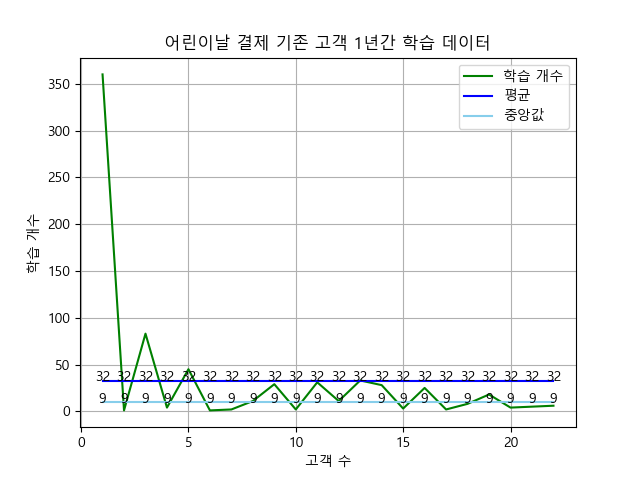
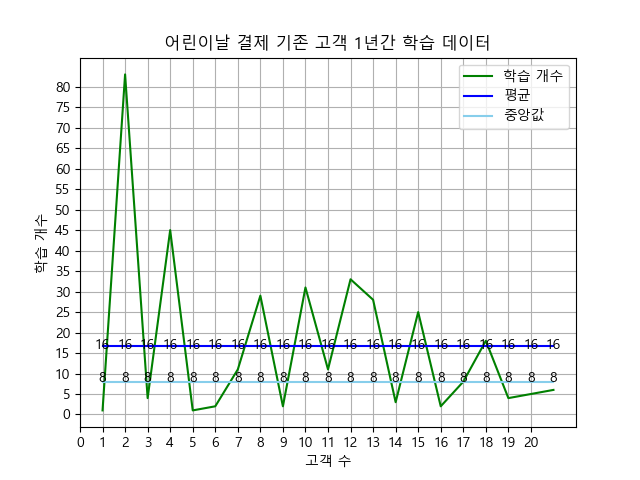
2022-05-17 Update

Changed region(s): [[0.0312, 0.1562, 0.9062, 0.875], [0.4375, 0.9062, 0.8438, 0.9375], [0.1875, 0.9062, 0.3438, 0.9375]]

diff --git a/existingCustomerLearningData.py b/existingCustomerLearningData.py
@@ -26,8 +26,11 @@ plt.plot(df.rownum, learning_data_count_mean, color='blue', linestyle='solid', l
 learning_data_count_median = [df.learning_data_count.median()] * len(df.rownum)
 plt.plot(df.rownum, learning_data_count_median, color='skyblue', linestyle='solid', label='중앙값')
 
+# x축 눈금 출력 단위 설정
+plt.xticks(np.arange(0, df.rownum.max(), 1))
+
 # y축 눈금 출력 단위 설정
-plt.yticks(np.arange(0, df.learning_data_count.max(), 50))
+plt.yticks(np.arange(0, df.learning_data_count.max(), 5))
 
 # Float to Int
 a = np.array(learning_data_count_mean, dtype=int)

diff --git a/existingCustomerAttendance.py b/existingCustomerAttendance.py
@@ -25,9 +25,11 @@ plt.plot(df.rownum, attendance_count_mean, color='blue', linestyle='solid', labe
 attendance_count_median = [df.attendance_count.median()] * len(df.rownum)
 plt.plot(df.rownum, attendance_count_median, color='skyblue', linestyle='solid', label='중앙값')
 
+# x축 눈금 출력 단위 설정
+plt.xticks(np.arange(0, df.rownum.max(), 1))
 
 # y축 눈금 출력 단위 설정
-plt.yticks(np.arange(0, df.attendance_count.max(), 5))
+plt.yticks(np.arange(0, df.attendance_count.max(), 1))
 
 # Float to Int
 a = np.array(attendance_count_mean, dtype=int)

diff --git a/existingCustomerLearningMode.py b/existingCustomerLearningMode.py
@@ -26,7 +26,7 @@ add_value_label(df.learning_mode, a)
 plt.plot(df.learning_mode, a, color='skyblue', linestyle='solid', label='학습 모드별 %')
 
 # y축 눈금 출력 단위 설정
-plt.yticks(np.arange(0, df.learning_mode_count.max(), 50))
+plt.yticks(np.arange(0, df.learning_mode_count.max(), 10))
 
 # add_value_label
 add_value_label(df.learning_mode, df.learning_mode_count)
